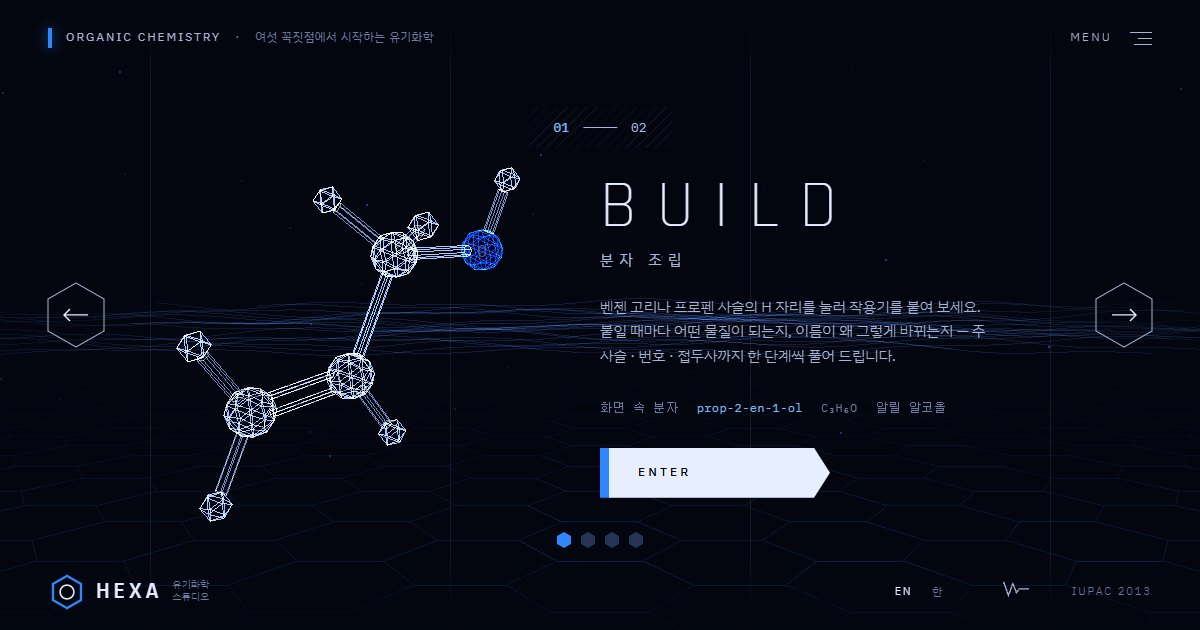
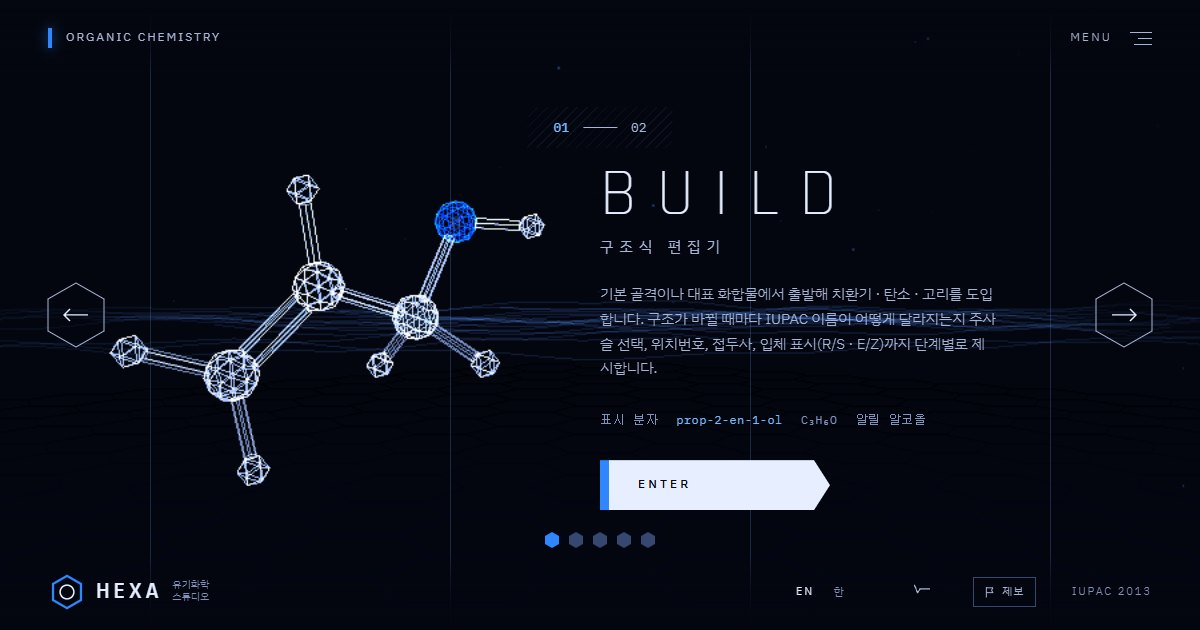
v6.3: 링크 미리보기 배너에서도 문구 삭제
- og-image.jpg 를 지금 첫 화면으로 다시 캡처 (머리말 문구 없음, 바뀐 메뉴 이름 · 설명)
- 미리보기 캐시가 예전 그림을 보여 주지 않도록 og:image 주소에 ?v=6.3

diff --git a/index.html b/index.html
@@ -12,7 +12,7 @@
 <meta property="og:description" content="구조식 편집 · IUPAC 명명 · 반응 예측 · 입체화학을 한곳에서.">
 <meta property="og:locale" content="ko_KR">
 <meta property="og:url" content="https://dhsrua555.github.io/organic-chem/">
-<meta property="og:image" content="https://dhsrua555.github.io/organic-chem/og-image.jpg">
+<meta property="og:image" content="https://dhsrua555.github.io/organic-chem/og-image.jpg?v=6.3">
 <meta property="og:image:width" content="1200">
 <meta property="og:image:height" content="630">
 <meta name="twitter:card" content="summary_large_image">

diff --git a/js/main.js b/js/main.js
@@ -4,7 +4,7 @@ import { startFx } from './fx.js';
 import { initReport } from './report.js';
 
 /* 패치 노트(CHANGELOG.md · GitHub Releases)의 번호와 같게 */
-const VERSION = 'v6.2 · 2026-09-26';
+const VERSION = 'v6.3 · 2026-09-26';
 $('#menu-ver').textContent = VERSION.split(' ')[0];
 
 const reduce = mq('(prefers-reduced-motion: reduce)');

diff --git a/CHANGELOG.md b/CHANGELOG.md
@@ -5,6 +5,11 @@ HEXA 유기화학에서 바뀐 점을 새것부터 적습니다.
 
 ---
 
+## v6.3 — 2026-09-26
+- 링크 미리보기 배너(카카오톡 · SNS에 링크를 붙였을 때 보이는 그림)에서도 머리말 문구를 없애고, 바뀐 메뉴 이름 · 설명으로 새로 만들었습니다. 예전 배너가 남아 보이지 않도록 그림 주소도 바꿨습니다.
+
+---
+
 ## v6.2 — 2026-09-26
 
 ### 누르는 느낌 · 경계
